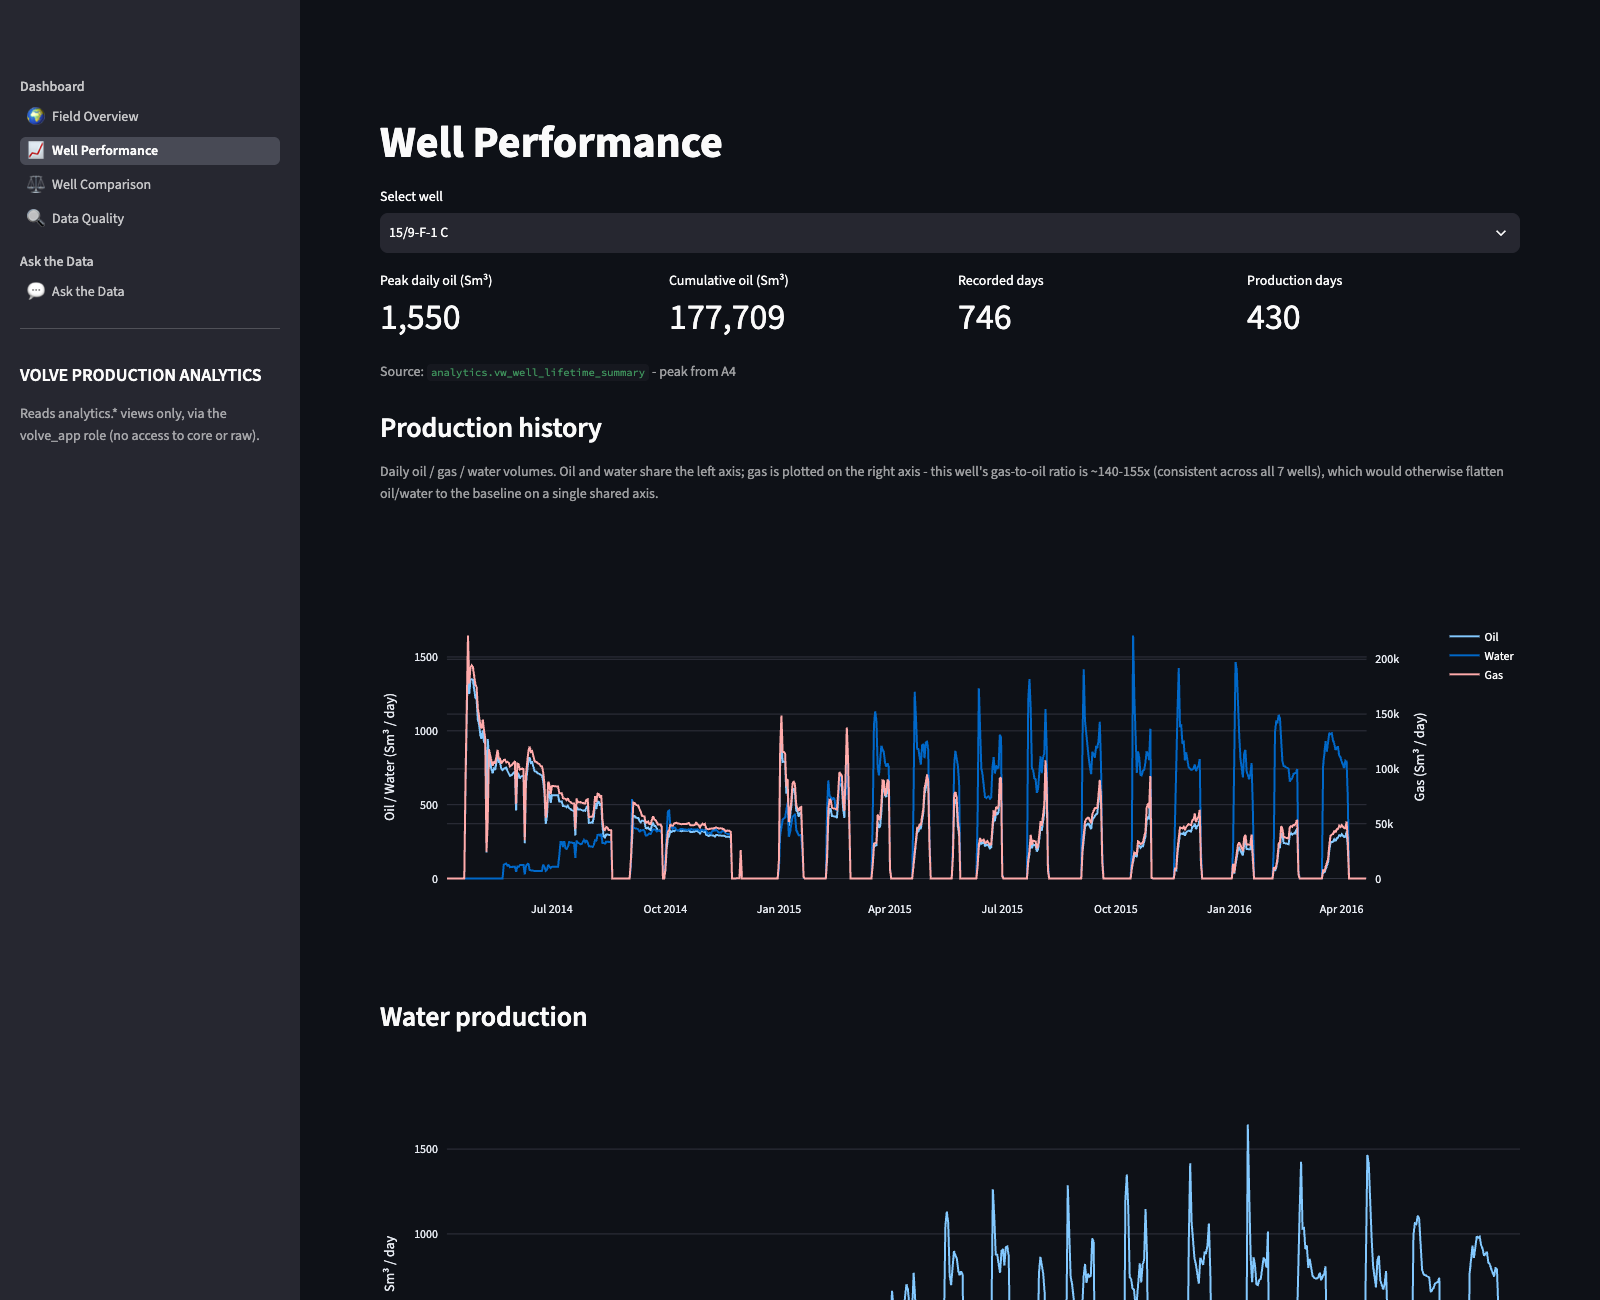
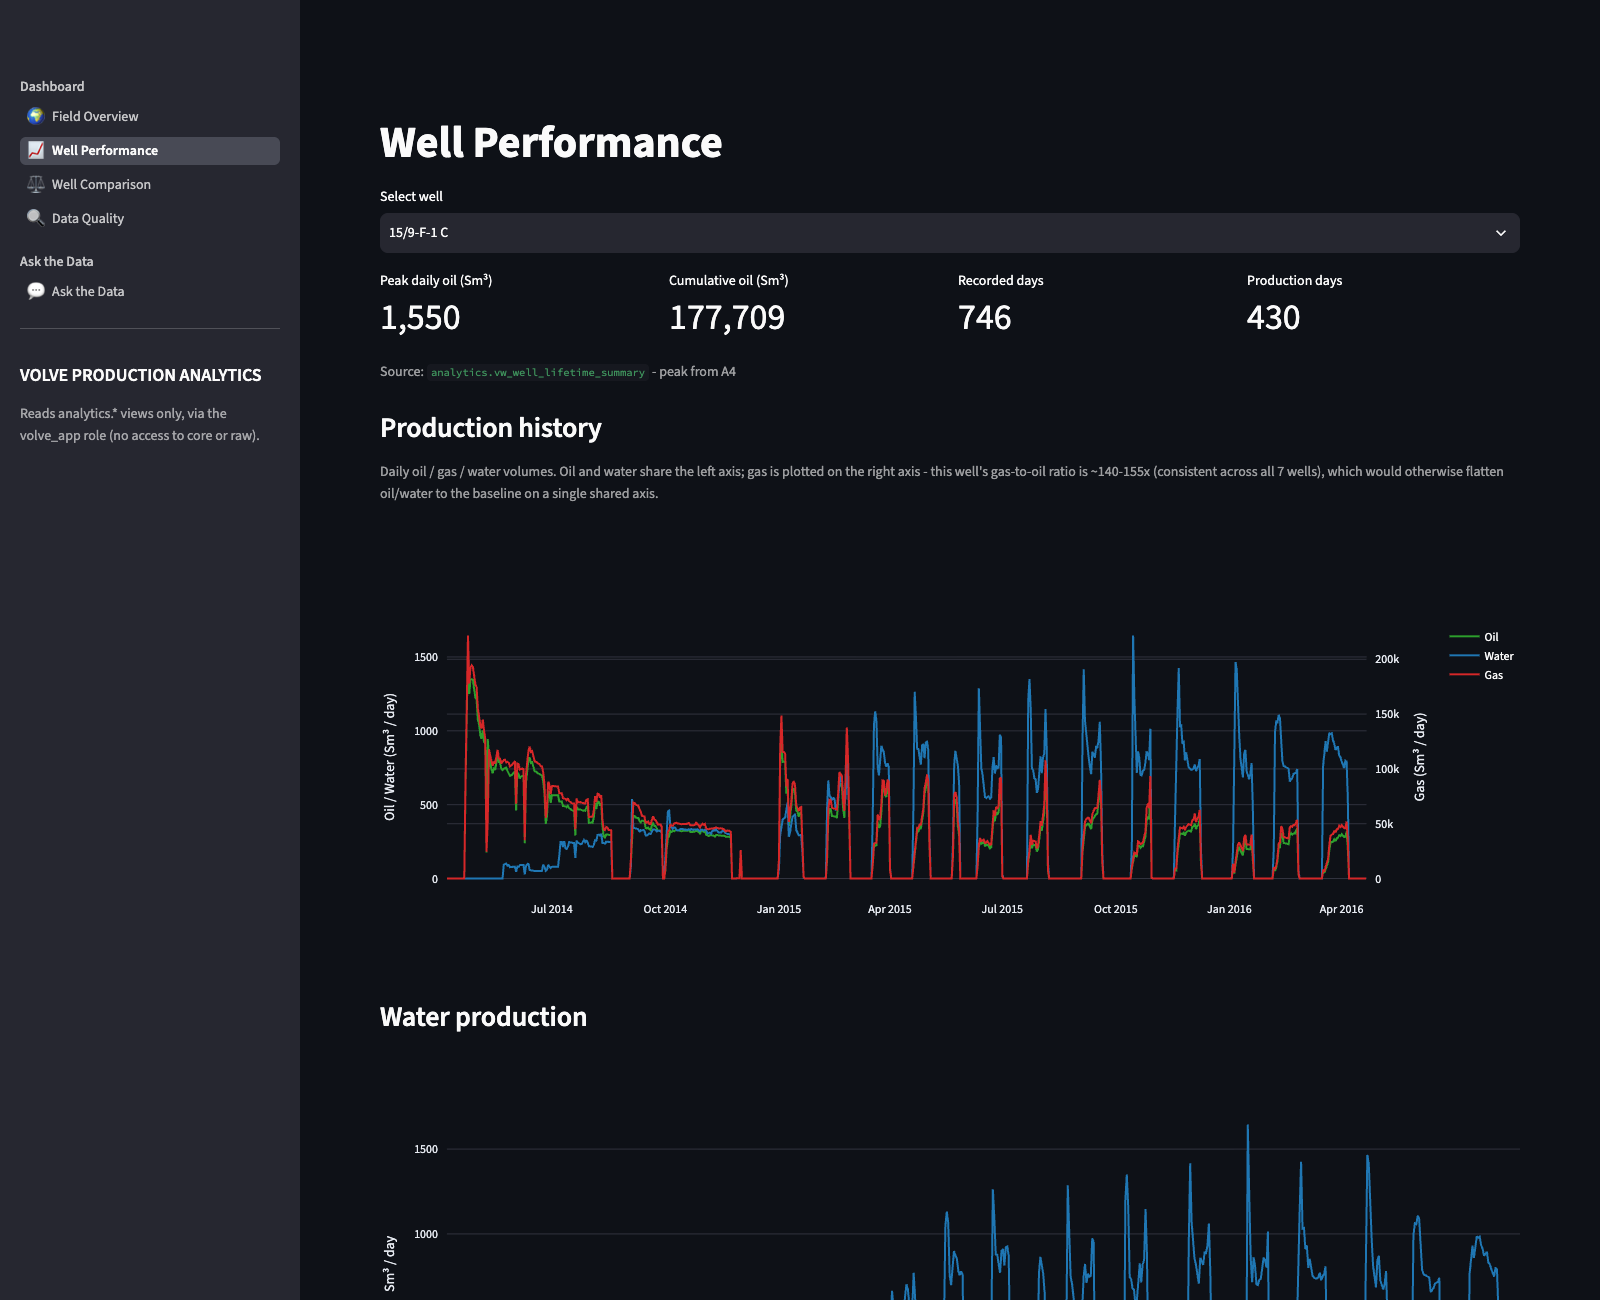
Apply standard oil/water/gas color convention across the dashboard
New app/colors.py centralizes it: oil green, water blue, gas red.
Applied to every chart that plots a named stream - Field Overview and
Well Performance's dual-axis production charts, water injection/
production charts, and the oil-only peak/cumulative charts.

Well Comparison initially got a themed monochrome treatment too (shades
of green for oil-only charts, etc.), but visual verification showed it
was a real usability regression: overlaying up to 7 wells in different
shades of one color made them hard to tell apart on the superposed
production chart and nearly unreadable on the normalized-profiles
chart, where hue is the only thing distinguishing wells. Reverted those
three multi-well line charts to Plotly's default categorical palette;
kept the green theming only on the ranking bar chart, where bars are
already positionally separated and the legend is hidden, so
distinguishability was never at risk there.

Changed region(s): [[0.2812, 0.4923, 0.8438, 0.6769], [0.5625, 0.9231, 0.9375, 1.0]]

diff --git a/app/views/field_overview.py b/app/views/field_overview.py
@@ -8,6 +8,7 @@ import plotly.graph_objects as go
 from plotly.subplots import make_subplots
 import streamlit as st
 
+import colors as c
 import queries as q
 
 st.title("Field Overview")
@@ -38,15 +39,18 @@ st.caption(
 )
 fig2 = make_subplots(specs=[[{"secondary_y": True}]])
 fig2.add_trace(
-    go.Scatter(x=field["month_start"], y=field["oil_volume"], name="Oil", mode="lines"),
+    go.Scatter(x=field["month_start"], y=field["oil_volume"], name="Oil",
+               mode="lines", line=dict(color=c.OIL)),
     secondary_y=False,
 )
 fig2.add_trace(
-    go.Scatter(x=field["month_start"], y=field["water_volume"], name="Water", mode="lines"),
+    go.Scatter(x=field["month_start"], y=field["water_volume"], name="Water",
+               mode="lines", line=dict(color=c.WATER)),
     secondary_y=False,
 )
 fig2.add_trace(
-    go.Scatter(x=field["month_start"], y=field["gas_volume"], name="Gas", mode="lines"),
+    go.Scatter(x=field["month_start"], y=field["gas_volume"], name="Gas",
+               mode="lines", line=dict(color=c.GAS)),
     secondary_y=True,
 )
 fig2.update_yaxes(title_text="Oil / Water (Sm³ / month)", secondary_y=False)
@@ -56,12 +60,12 @@ st.plotly_chart(fig2, width="stretch")
 st.subheader("Water injection")
 col_a, col_b = st.columns(2)
 with col_a:
-    fig3 = px.bar(field, x="month_start", y="water_injection_volume")
+    fig3 = px.bar(field, x="month_start", y="water_injection_volume", color_discrete_sequence=[c.WATER])
     fig3.update_layout(title="Monthly", yaxis_title="Sm³", xaxis_title=None)
     st.plotly_chart(fig3, width="stretch")
 with col_b:
     field["cumulative_water_injection"] = field["water_injection_volume"].cumsum()
-    fig3b = px.area(field, x="month_start", y="cumulative_water_injection")
+    fig3b = px.area(field, x="month_start", y="cumulative_water_injection", color_discrete_sequence=[c.WATER])
     fig3b.update_layout(title="Cumulative  -  A7", yaxis_title="Sm³", xaxis_title=None)
     st.plotly_chart(fig3b, width="stretch")
 
@@ -69,12 +73,12 @@ st.subheader("Field production trends")
 col_c, col_d = st.columns(2)
 with col_c:
     field["water_oil_ratio"] = field["water_volume"] / field["oil_volume"].replace(0, None)
-    fig4 = px.line(field, x="month_start", y="water_oil_ratio")
+    fig4 = px.line(field, x="month_start", y="water_oil_ratio", color_discrete_sequence=[c.WATER])
     fig4.update_layout(title="Water / oil ratio  -  A6", yaxis_title="Ratio", xaxis_title=None)
     st.plotly_chart(fig4, width="stretch")
 with col_d:
     top_months = q.top_field_months(10)
-    fig5 = px.bar(top_months, x="month_start", y="oil_volume")
+    fig5 = px.bar(top_months, x="month_start", y="oil_volume", color_discrete_sequence=[c.OIL])
     fig5.update_layout(title="Highest-producing months  -  A8", yaxis_title="Sm³ oil", xaxis_title=None)
     st.plotly_chart(fig5, width="stretch")
 

diff --git a/app/views/well_performance.py b/app/views/well_performance.py
@@ -8,6 +8,7 @@ import plotly.graph_objects as go
 from plotly.subplots import make_subplots
 import streamlit as st
 
+import colors as c
 import queries as q
 
 st.title("Well Performance")
@@ -35,15 +36,18 @@ st.caption(
 )
 fig = make_subplots(specs=[[{"secondary_y": True}]])
 fig.add_trace(
-    go.Scatter(x=daily["production_date"], y=daily["bore_oil_vol"], name="Oil", mode="lines"),
+    go.Scatter(x=daily["production_date"], y=daily["bore_oil_vol"], name="Oil",
+               mode="lines", line=dict(color=c.OIL)),
     secondary_y=False,
 )
 fig.add_trace(
-    go.Scatter(x=daily["production_date"], y=daily["bore_wat_vol"], name="Water", mode="lines"),
+    go.Scatter(x=daily["production_date"], y=daily["bore_wat_vol"], name="Water",
+               mode="lines", line=dict(color=c.WATER)),
     secondary_y=False,
 )
 fig.add_trace(
-    go.Scatter(x=daily["production_date"], y=daily["bore_gas_vol"], name="Gas", mode="lines"),
+    go.Scatter(x=daily["production_date"], y=daily["bore_gas_vol"], name="Gas",
+               mode="lines", line=dict(color=c.GAS)),
     secondary_y=True,
 )
 fig.update_yaxes(title_text="Oil / Water (Sm³ / day)", secondary_y=False)
@@ -51,7 +55,7 @@ fig.update_yaxes(title_text="Gas (Sm³ / day)", secondary_y=True)
 st.plotly_chart(fig, width="stretch")
 
 st.subheader("Water production")
-fig2 = px.line(daily, x="production_date", y="bore_wat_vol")
+fig2 = px.line(daily, x="production_date", y="bore_wat_vol", color_discrete_sequence=[c.WATER])
 fig2.update_layout(yaxis_title="Sm³ / day", xaxis_title=None)
 st.plotly_chart(fig2, width="stretch")
 
@@ -82,7 +86,10 @@ if peak_row is not None:
         f"**{peak_row['production_date'].date()}**"
     )
 fig4 = go.Figure()
-fig4.add_trace(go.Scatter(x=daily["production_date"], y=daily["bore_oil_vol"], mode="lines", name="Daily oil"))
+fig4.add_trace(go.Scatter(
+    x=daily["production_date"], y=daily["bore_oil_vol"],
+    mode="lines", name="Daily oil", line=dict(color=c.OIL),
+))
 if peak_row is not None:
     fig4.add_trace(go.Scatter(
         x=[peak_row["production_date"]], y=[peak_row["bore_oil_vol"]],
@@ -94,7 +101,7 @@ st.plotly_chart(fig4, width="stretch")
 st.subheader("Cumulative production")
 daily_sorted = daily.sort_values("production_date").copy()
 daily_sorted["cumulative_oil"] = daily_sorted["bore_oil_vol"].fillna(0).cumsum()
-fig5 = px.area(daily_sorted, x="production_date", y="cumulative_oil")
+fig5 = px.area(daily_sorted, x="production_date", y="cumulative_oil", color_discrete_sequence=[c.OIL])
 fig5.update_layout(yaxis_title="Cumulative Sm³", xaxis_title=None)
 st.plotly_chart(fig5, width="stretch")
 

diff --git a/app/views/well_comparison.py b/app/views/well_comparison.py
@@ -6,6 +6,7 @@ sys.path.insert(0, str(Path(__file__).resolve().parent.parent))
 import plotly.express as px
 import streamlit as st
 
+import colors as c
 import queries as q
 
 st.title("Well Comparison")
@@ -39,6 +40,10 @@ with col_scale:
 metric_col = {"Oil": "oil_volume", "Gas": "gas_volume", "Water": "water_volume"}[metric]
 history = q.monthly_production_multi(selected_codes)
 if not history.empty:
+    # Default categorical palette, not a stream-themed monochrome scale:
+    # with up to 7 overlapping lines, telling wells apart by hue matters
+    # more here than reinforcing "this is an oil chart" - shades of one
+    # color made wells hard to distinguish once more than 2-3 were selected.
     fig0 = px.line(history, x="month_start", y=metric_col, color="wellbore_name")
     fig0.update_layout(yaxis_title=f"{metric} (Sm³ / month)", xaxis_title=None)
     if log_scale:
@@ -55,6 +60,7 @@ if not rank_selected.empty:
     fig = px.bar(
         rank_selected.sort_values("oil_rank"),
         x="wellbore_name", y="total_oil", color="wellbore_name",
+        color_discrete_sequence=c.shades(c.OIL_SCALE, rank_selected["wellbore_name"].nunique()),
     )
     fig.update_layout(yaxis_title="Cumulative oil (Sm³)", xaxis_title=None, showlegend=False)
     st.plotly_chart(fig, width="stretch")
@@ -73,6 +79,9 @@ st.caption(
 )
 profiles = q.normalized_profiles(selected_codes)
 if not profiles.empty:
+    # Default categorical palette - same reasoning as the superposed chart
+    # above, only more so: this is a dense multi-line overlay where a
+    # monochrome scale made wells nearly impossible to tell apart.
     fig2 = px.line(profiles, x="days_since_first_oil", y="pct_of_peak", color="wellbore_name")
     fig2.update_layout(yaxis_title="% of peak daily oil", xaxis_title="Days since first oil")
     st.plotly_chart(fig2, width="stretch")
@@ -84,6 +93,7 @@ st.caption("Monthly water/oil ratio per well  -  A6 generalized across wells")
 water = q.water_trends(selected_codes)
 if not water.empty:
     water["month_start"] = water["year"].astype(str) + "-" + water["month"].astype(str).str.zfill(2)
+    # Default categorical palette - same reasoning as the two charts above.
     fig3 = px.line(water, x="month_start", y="water_oil_ratio", color="wellbore_name")
     fig3.update_layout(yaxis_title="Water / oil ratio", xaxis_title=None)
     fig3.update_xaxes(type="category")

diff --git a/app/colors.py b/app/colors.py
@@ -1,0 +1,40 @@
+"""
+colors.py
+
+Standard petroleum-engineering color convention, applied consistently
+across every chart in this app: oil green, water blue, gas red. Used
+wherever a chart plots oil/water/gas as distinct series. For charts that
+overlay multiple wells on a single stream (e.g. Well Comparison), the
+stream's color anchors a sequential palette (light -> dark) so wells stay
+distinguishable while the chart still reads as "this is an oil chart" /
+"this is a water chart" at a glance.
+"""
+
+import plotly.express as px
+
+OIL = "#2ca02c"
+WATER = "#1f77b4"
+GAS = "#d62728"
+
+STREAM_COLOR_MAP = {"Oil": OIL, "Water": WATER, "Gas": GAS}
+
+# Plotly named sequential scales, for shades() below, when overlaying several
+# wells on a single stream (e.g. Well Comparison) - keeps the chart reading
+# as "this is an oil chart" while wells stay distinguishable by shade.
+OIL_SCALE = "Greens"
+WATER_SCALE = "Blues"
+GAS_SCALE = "Reds"
+STREAM_SCALE_MAP = {"Oil": OIL_SCALE, "Gas": GAS_SCALE, "Water": WATER_SCALE}
+
+
+def shades(scale_name: str, n: int) -> list[str]:
+    """
+    n distinct, readable shades from a sequential colorscale. Sampled from
+    35%-95% of the scale, not 0%-100% - the light end of most sequential
+    scales is near-white and unreadable against this app's dark theme.
+    """
+    if n <= 0:
+        return []
+    if n == 1:
+        return [px.colors.sample_colorscale(scale_name, [0.75])[0]]
+    return px.colors.sample_colorscale(scale_name, [0.35 + 0.6 * i / (n - 1) for i in range(n)])
